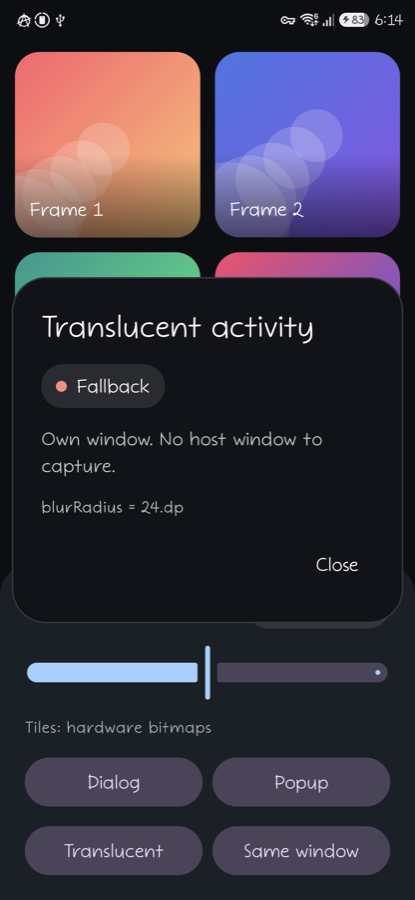
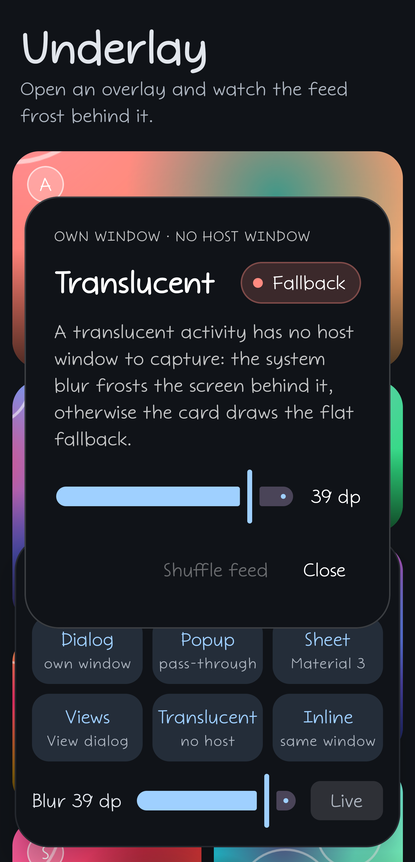
Show the sample as a GIF in the READMEs and retake the screenshots

diff --git a/README.ru.md b/README.ru.md
@@ -7,9 +7,7 @@
 
 Размытая подложка для диалогов и оверлеев, которые живут **в своём окне**, начиная с API 23.
 
-| `Snapshot` под `Dialog` | `Fallback` в прозрачной активити |
-|---|---|
-| <img src="docs/snapshot.png" width="300" alt="Диалог поверх сетки плиток, подложка размыта по снимку окна активити"> | <img src="docs/fallback.png" width="300" alt="Прозрачная активити рисует сплошной цвет: захватывать нечего"> |
+<img src="docs/demo.gif" width="300" alt="Sample на Galaxy S25: диалог, popup, нижняя шторка и View-диалог над размытой лентой, затем прозрачная активити и оверлей в том же окне с цветом fallback">
 
 ```kotlin
 Dialog(onDismissRequest = ::dismiss) {

diff --git a/README.md b/README.md
@@ -7,9 +7,7 @@
 
 Blurred backdrop for dialogs and overlays that live in **their own window**, down to API 23.
 
-| `Snapshot` behind a `Dialog` | `Fallback` in a translucent activity |
-|---|---|
-| <img src="docs/snapshot.png" width="300" alt="A dialog over a grid of tiles, its backdrop blurred from a snapshot of the activity window"> | <img src="docs/fallback.png" width="300" alt="A translucent activity drawing the solid fallback color, with no host window to capture"> |
+<img src="docs/demo.gif" width="300" alt="The sample on a Galaxy S25: a dialog, a popup, a bottom sheet and a View dialog over a blurred feed, then a translucent activity and an in-window overlay drawing the fallback">
 
 ```kotlin
 Dialog(onDismissRequest = ::dismiss) {

diff --git a/docs/article-window-boundary.ru.md b/docs/article-window-boundary.ru.md
@@ -188,7 +188,7 @@ view.blurredUnderlay(
 
 `minSdk 23`, Apache 2.0, [github.com/timkrest/Underlay](https://github.com/timkrest/Underlay).
 
-<img src="snapshot.png" width="300" alt="Диалог над плитками, фон размыт из снимка окна активити">
+<img src="snapshot.png" width="300" alt="Диалог над лентой карточек, фон размыт из снимка окна активити">
 
 Модификатор сам разбирается, из какого окна его вызвали и есть ли под ним окно-хост, и берёт
 лучшее из доступного. Первая ступень выше — это `SystemBlur`, вторая — `Snapshot`:

diff --git a/docs/article-window-boundary.md b/docs/article-window-boundary.md
@@ -192,7 +192,7 @@ view.blurredUnderlay(
 
 <img src="snapshot.png"
      width="300"
-     alt="A dialog over tiles, its backdrop blurred from a snapshot of the activity window">
+     alt="A dialog over a feed of cards, its backdrop blurred from a snapshot of the activity window">
 
 The modifier figures out which window it was called from and whether there's a host window
 underneath, then takes the best thing available. Step one from above is `SystemBlur`, step two is
